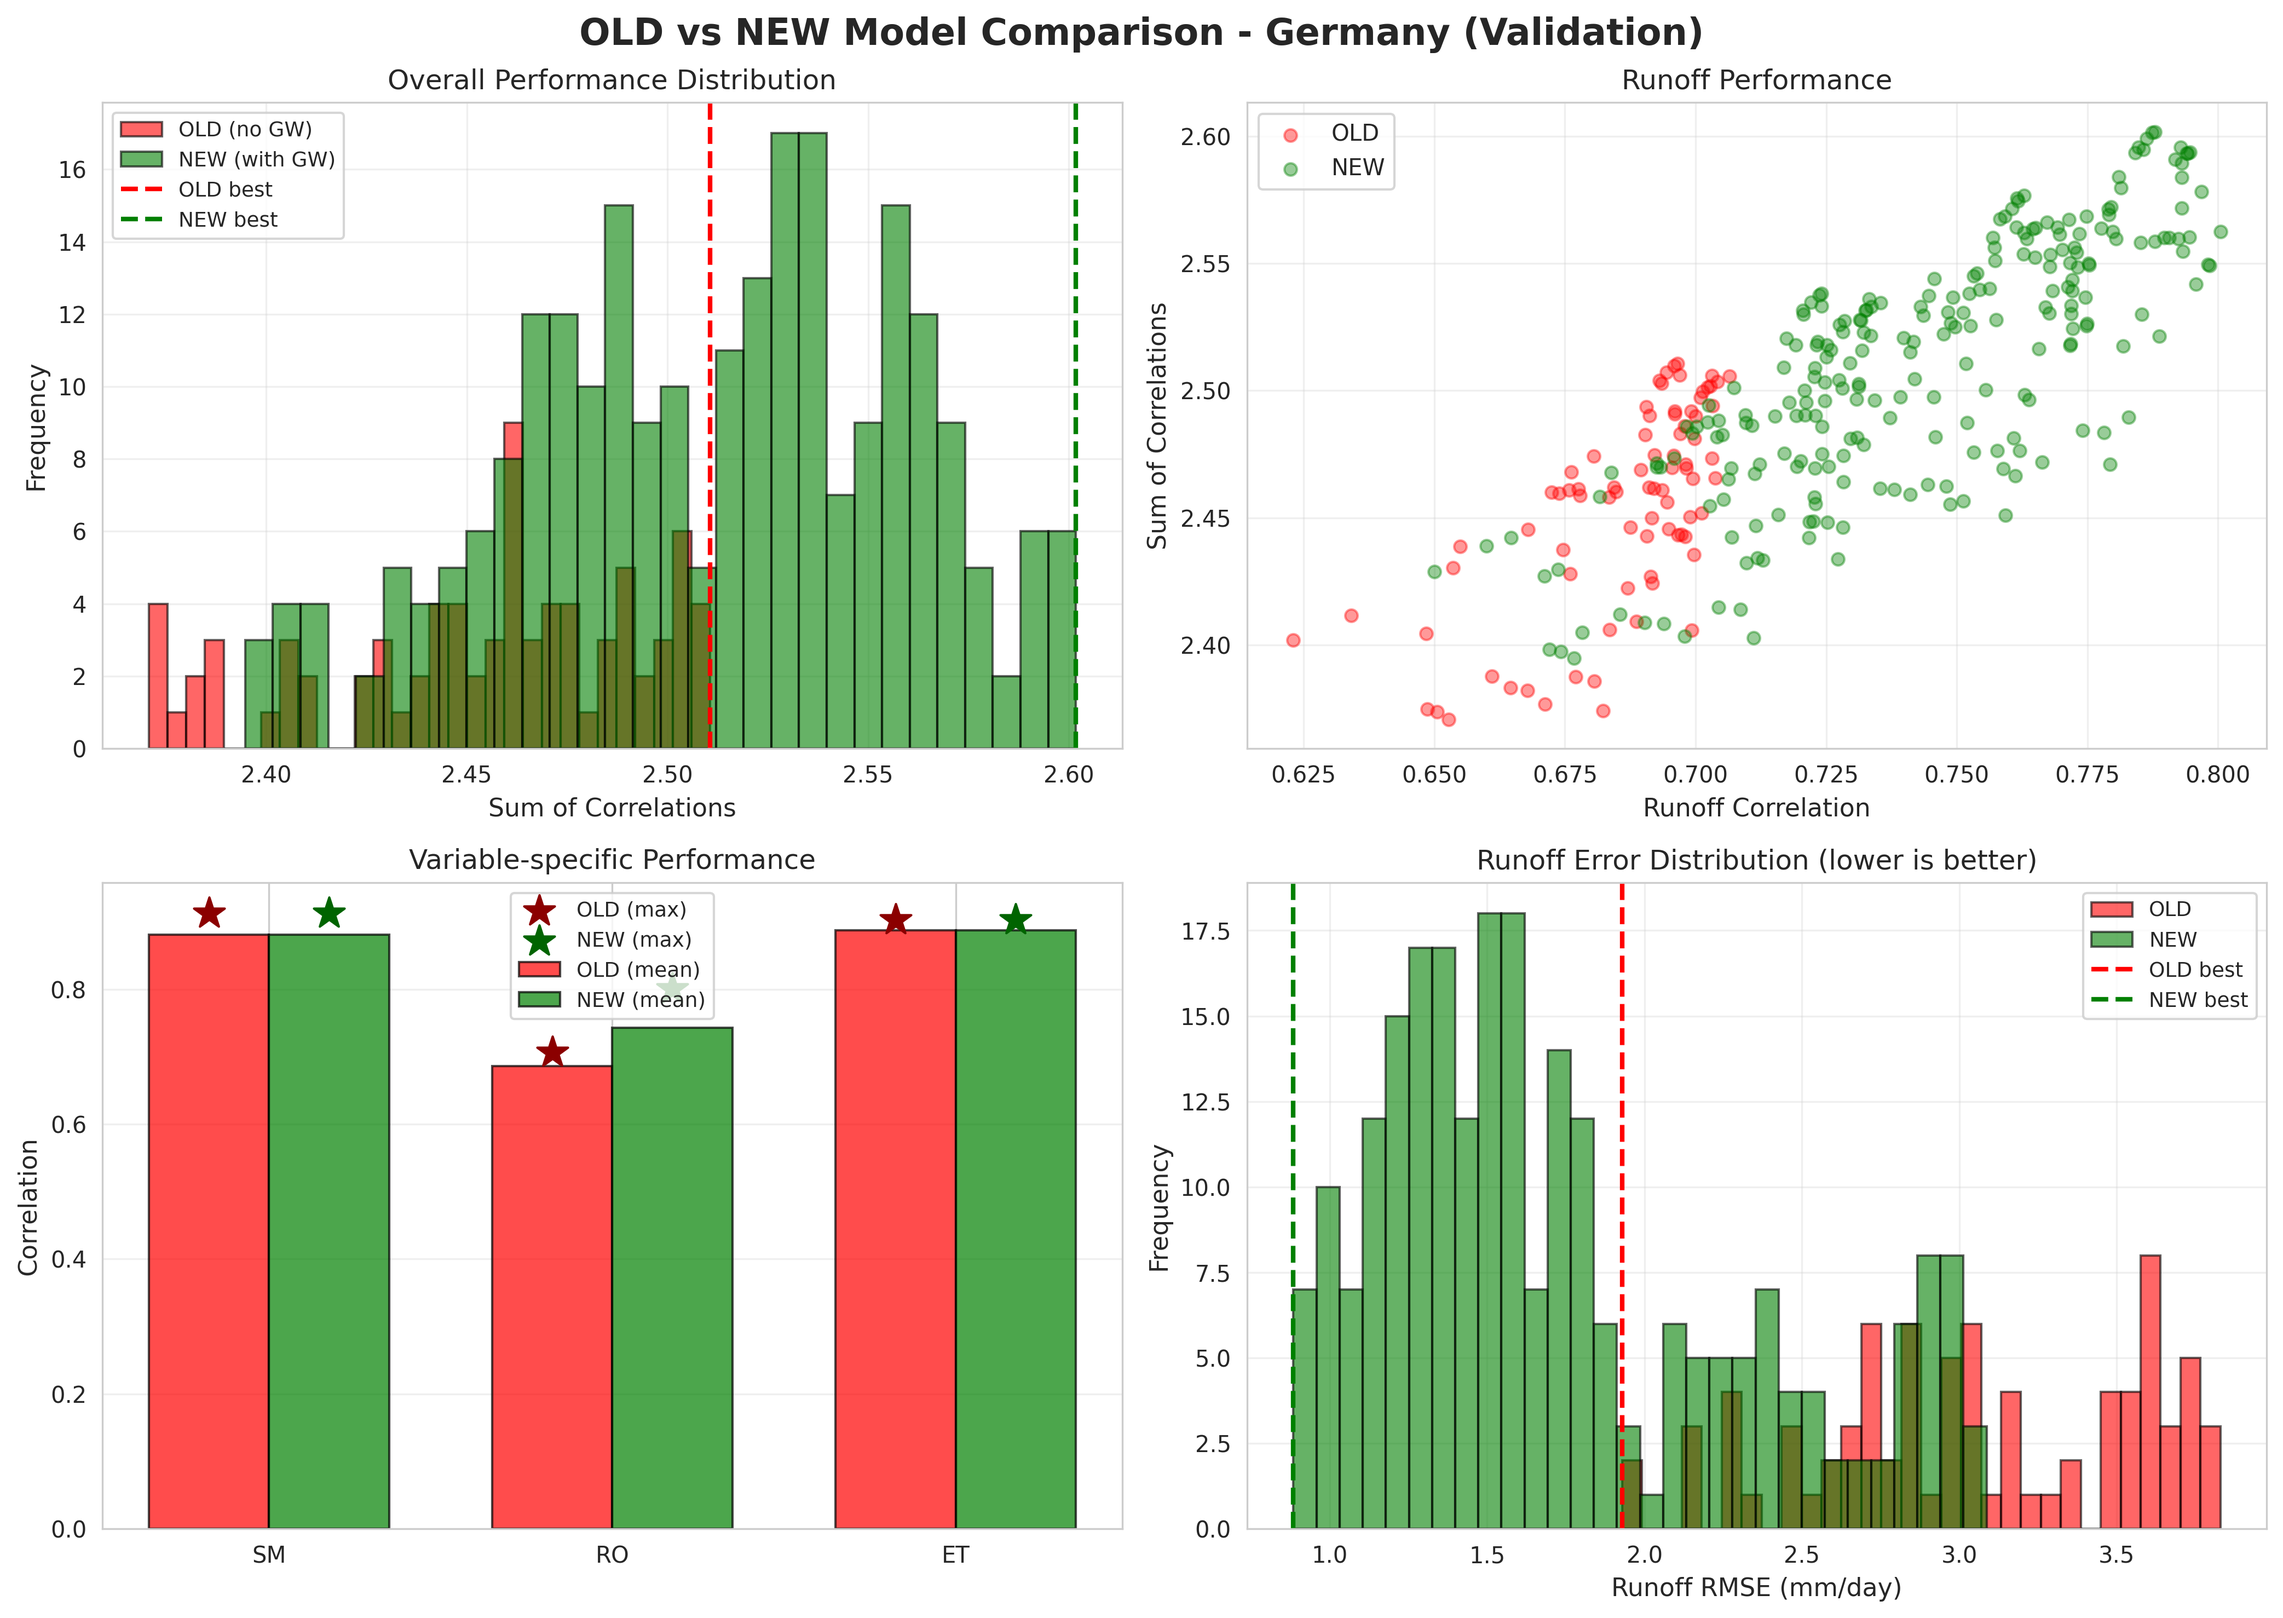
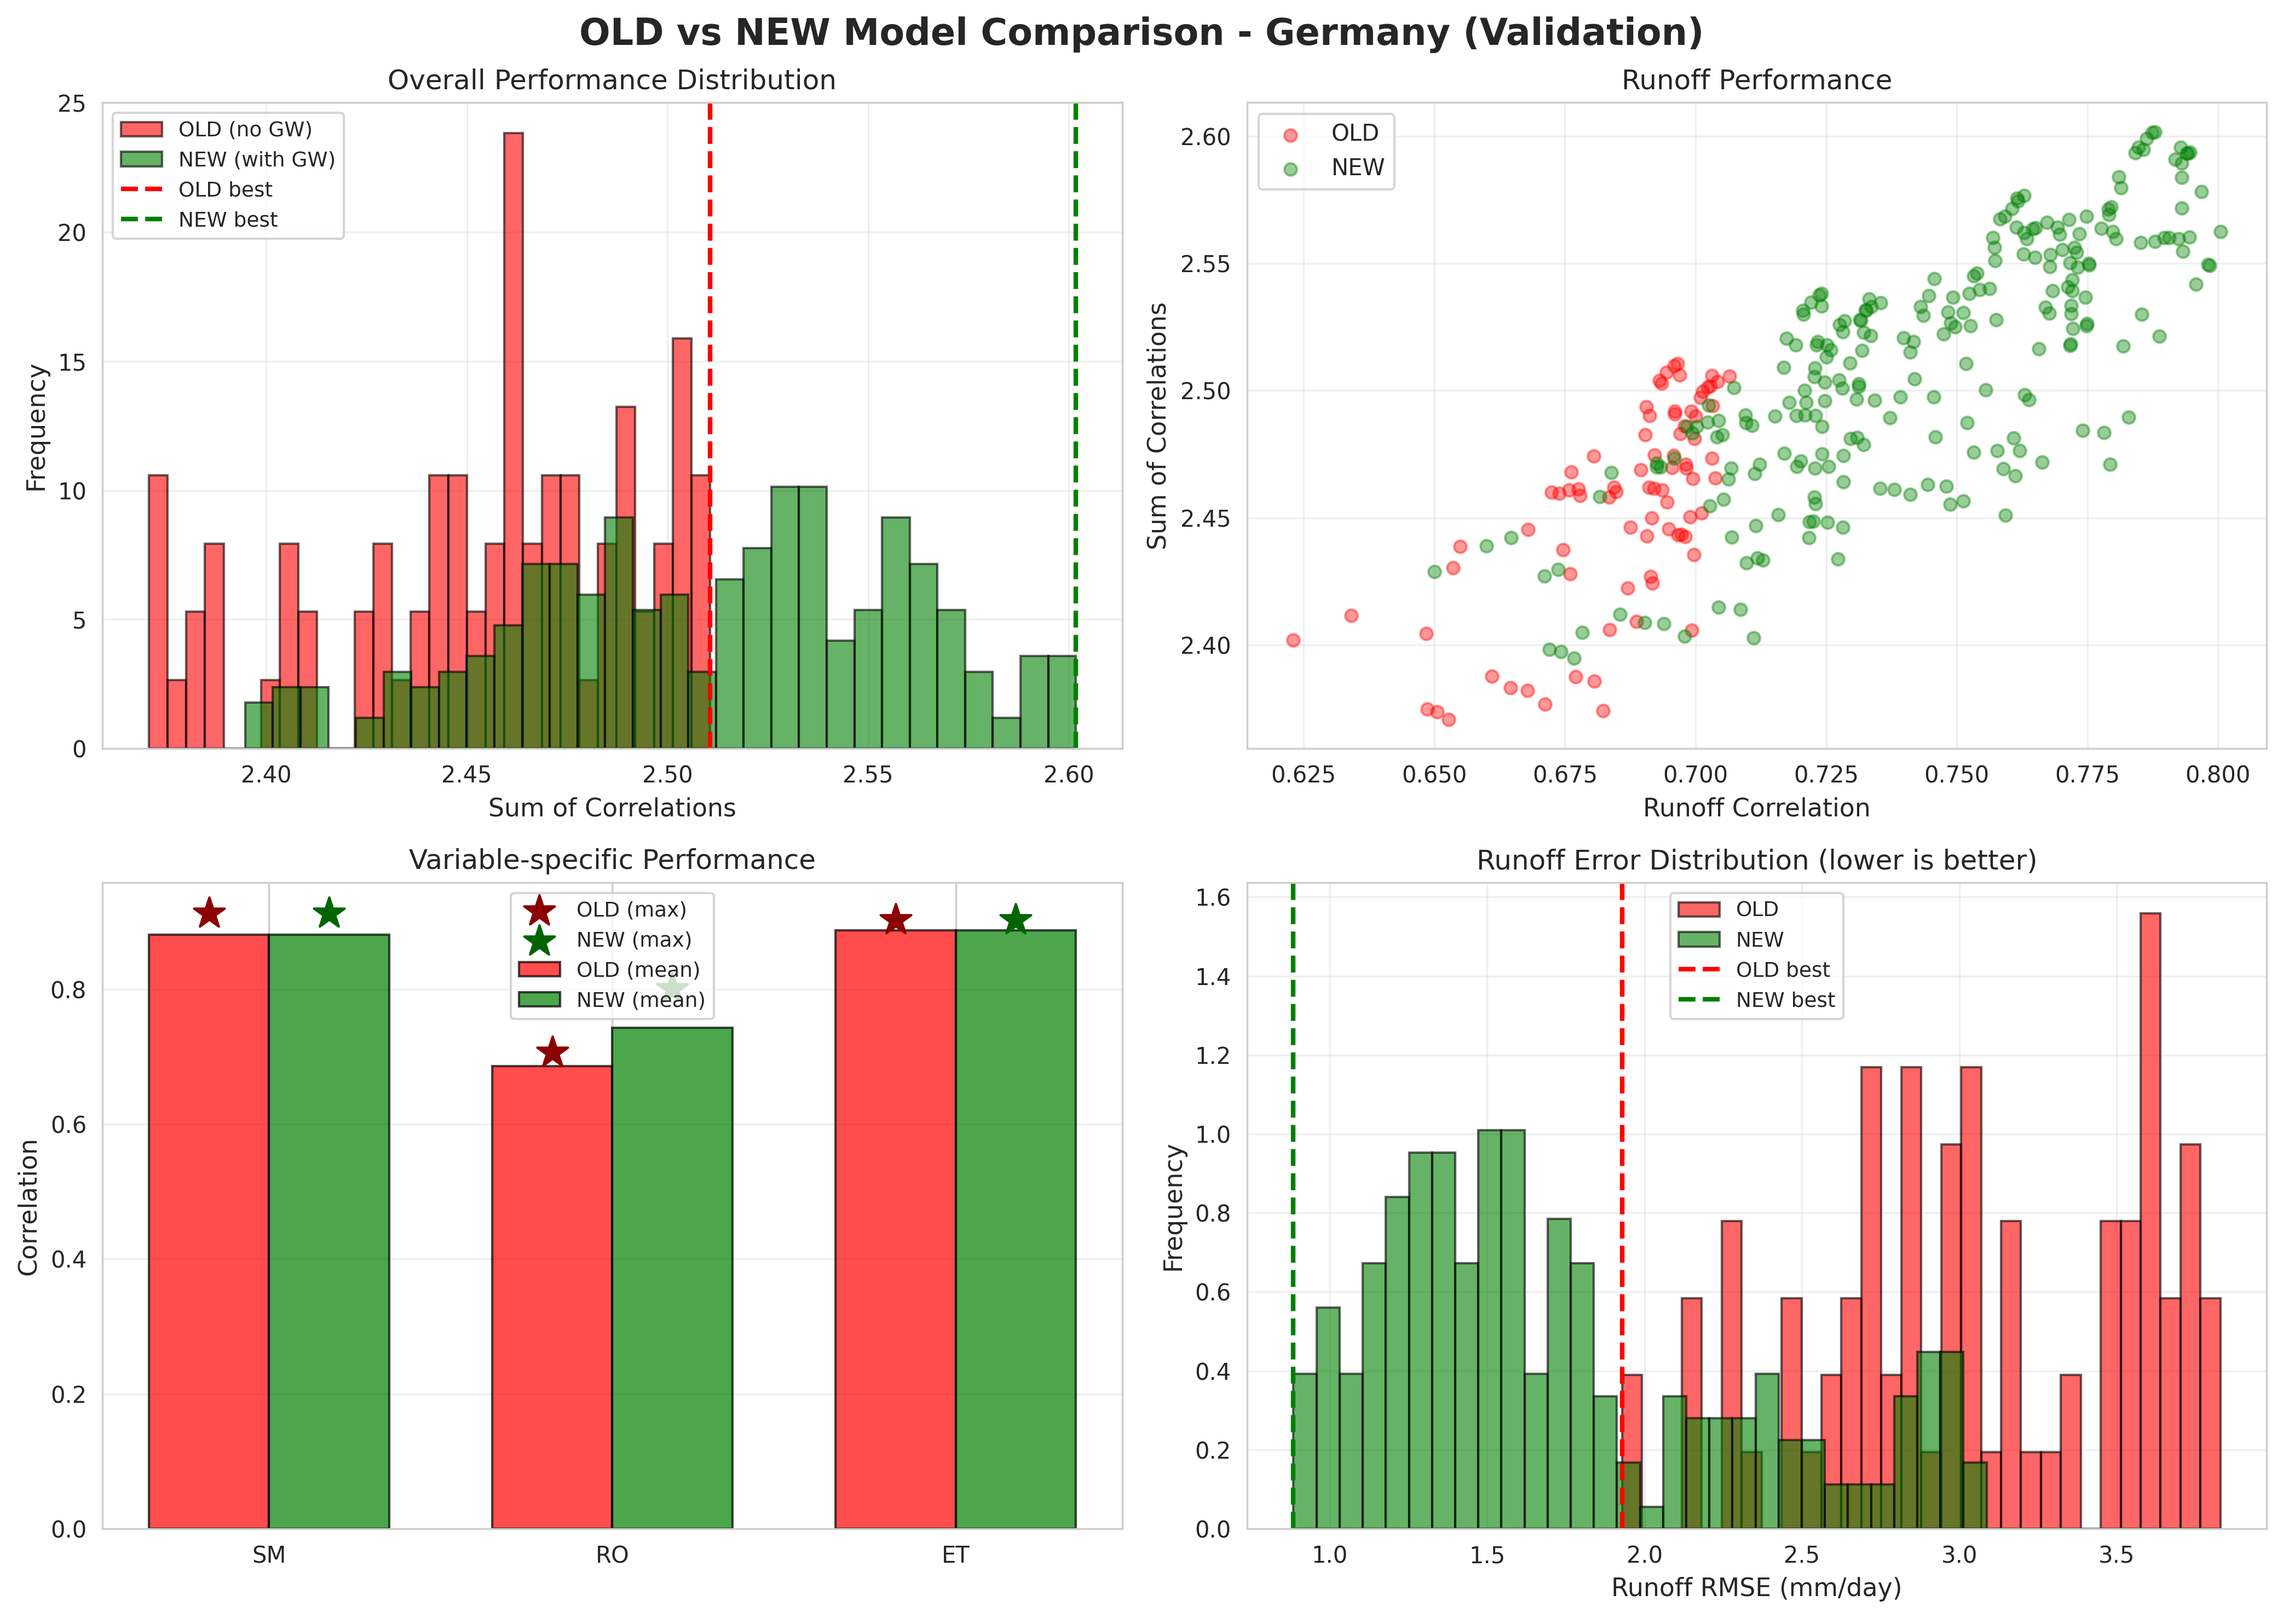
fix: normalized hist, density = True

diff --git a/C-SWBM-main/compare_old_new.py b/C-SWBM-main/compare_old_new.py
@@ -345,9 +345,9 @@ def plot_model_comparison(comparison_df, site_name, period, output_dir='model_co
     # Plot 1: Distribution of sum correlations
     ax = axes[0, 0]
     ax.hist(old_data['sum_correlation'].dropna(), bins=30, alpha=0.6, 
-           label='OLD (no GW)', color='red', edgecolor='black')
+           label='OLD (no GW)', color='red', edgecolor='black', density=True)
     ax.hist(new_data['sum_correlation'].dropna(), bins=30, alpha=0.6, 
-           label='NEW (with GW)', color='green', edgecolor='black')
+           label='NEW (with GW)', color='green', edgecolor='black', density=True)
     ax.axvline(old_data['sum_correlation'].max(), color='red', 
               linestyle='--', linewidth=2, label='OLD best')
     ax.axvline(new_data['sum_correlation'].max(), color='green', 
@@ -401,9 +401,9 @@ def plot_model_comparison(comparison_df, site_name, period, output_dir='model_co
     # Plot 4: Runoff RMSE comparison
     ax = axes[1, 1]
     ax.hist(old_data['ro_rmse'].dropna(), bins=30, alpha=0.6, 
-           label='OLD', color='red', edgecolor='black')
+           label='OLD', color='red', edgecolor='black', density = True)
     ax.hist(new_data['ro_rmse'].dropna(), bins=30, alpha=0.6, 
-           label='NEW', color='green', edgecolor='black')
+           label='NEW', color='green', edgecolor='black', density = True)
     ax.axvline(old_data['ro_rmse'].min(), color='red', 
               linestyle='--', linewidth=2, label='OLD best')
     ax.axvline(new_data['ro_rmse'].min(), color='green', 
